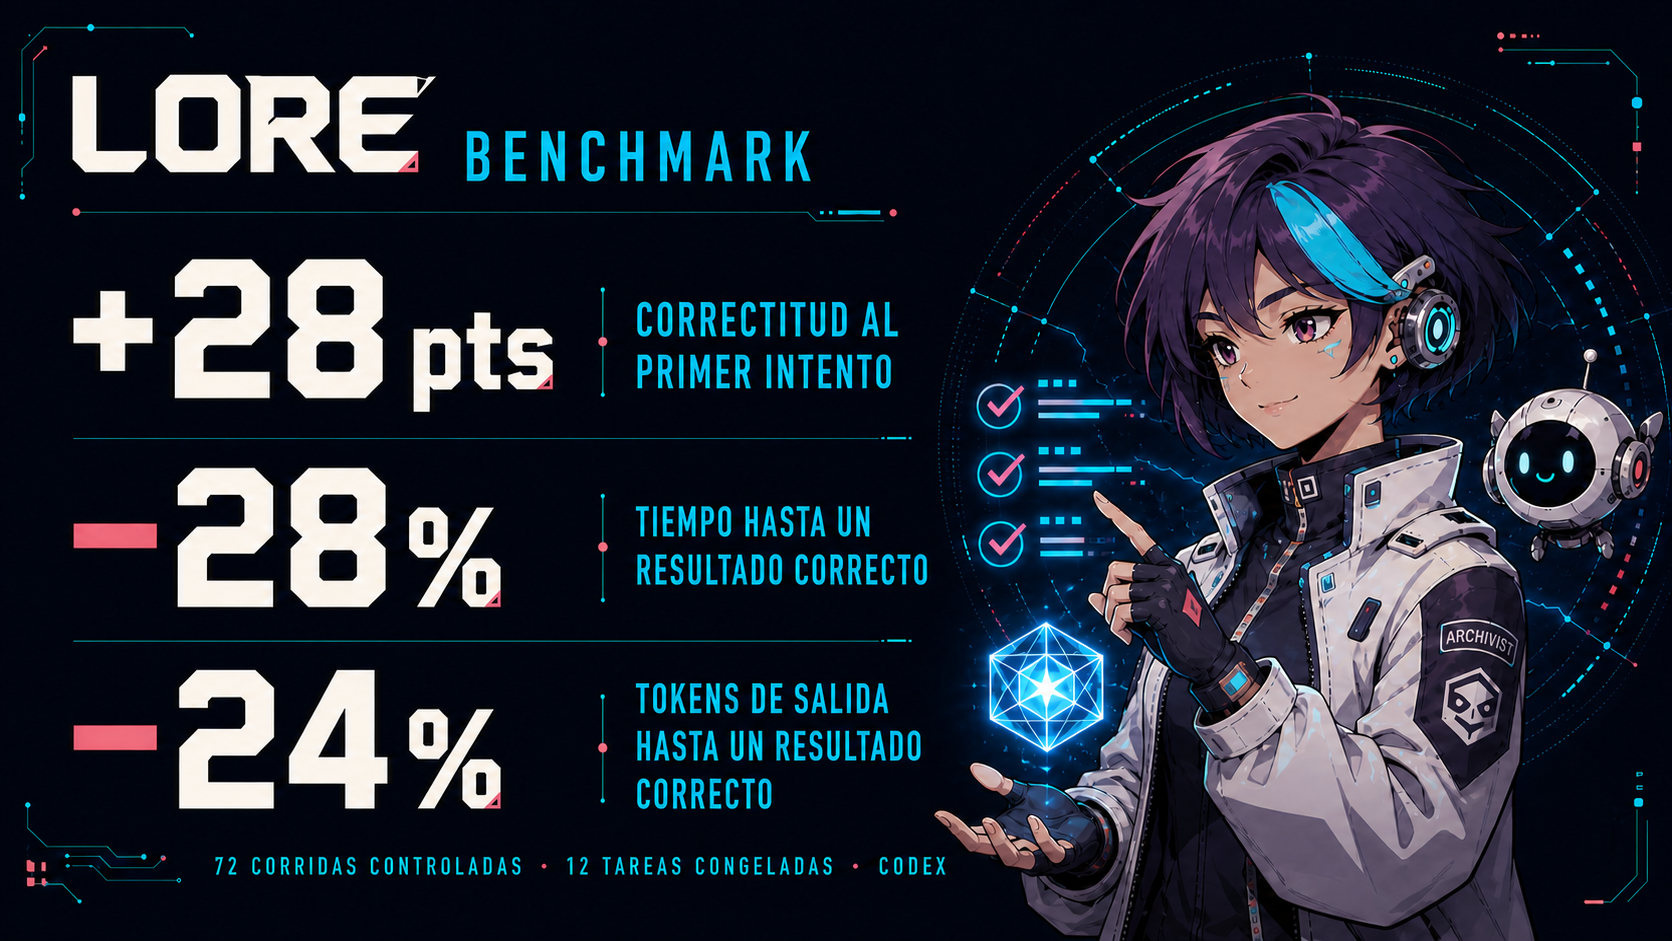
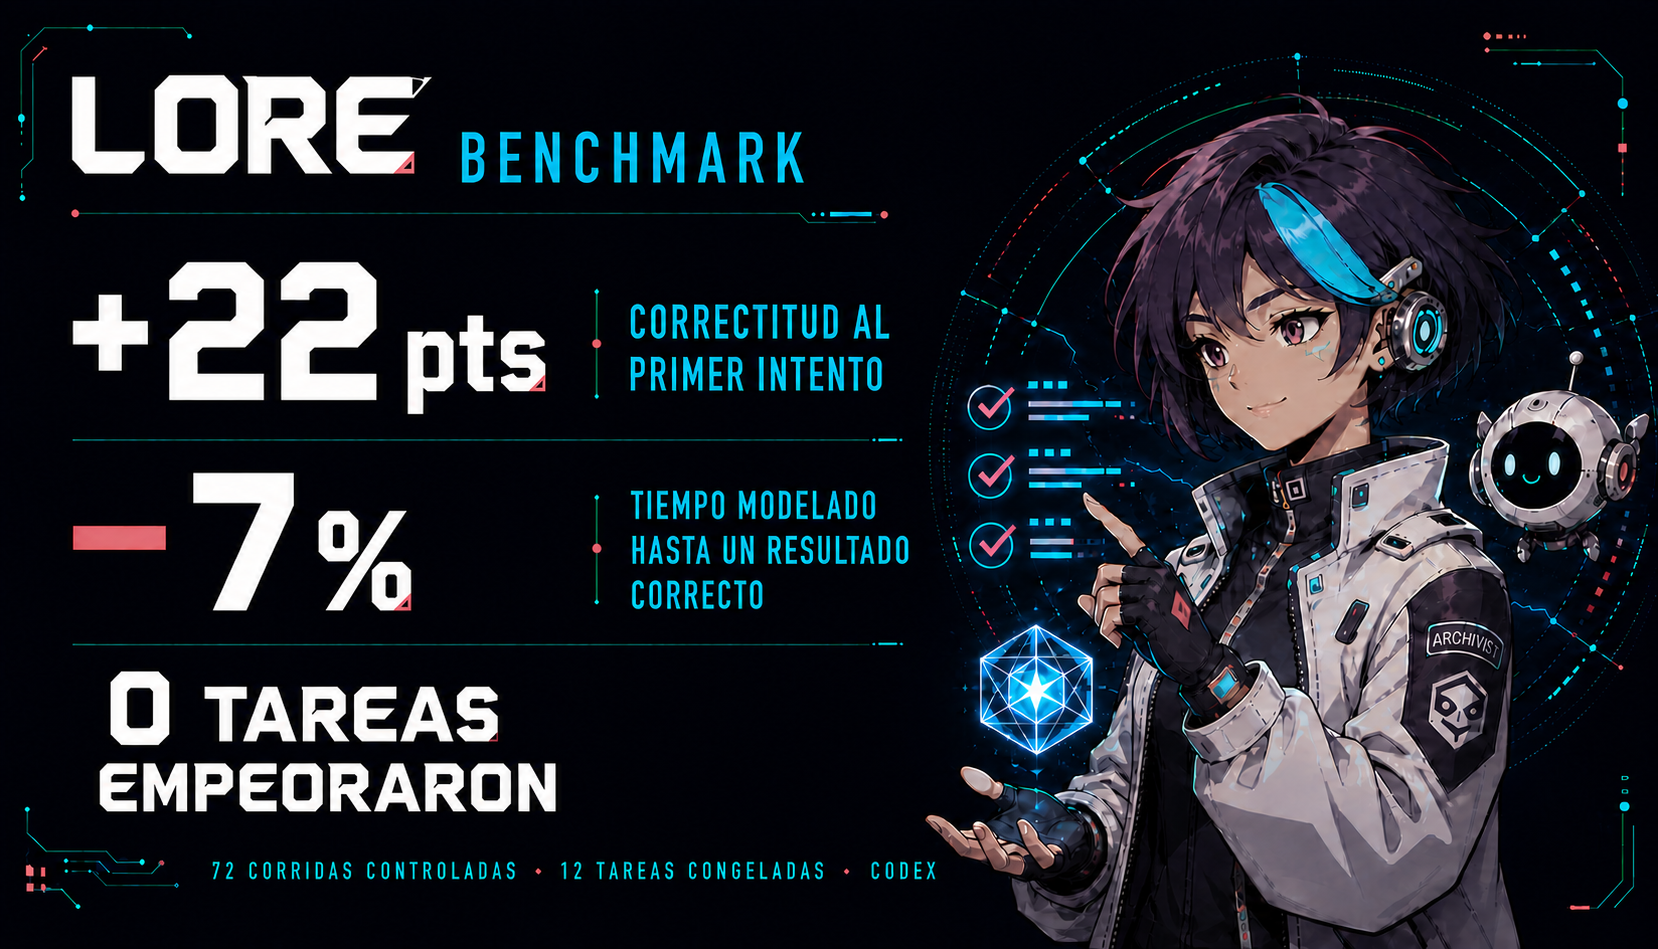
Consolidate audited benchmark in v2.0.7
# Conflicts:
#	README.md

diff --git a/README.md b/README.md
@@ -15,7 +15,7 @@
 <h1 align="center">Lore</h1>
 
 <p align="center">
-  <a href="#installation"><img src="https://img.shields.io/badge/version-2.0.6-F72585?style=for-the-badge&labelColor=0B0B12" alt="Version"></a>
+  <a href="#installation"><img src="https://img.shields.io/badge/version-2.0.7-F72585?style=for-the-badge&labelColor=0B0B12" alt="Version"></a>
   <a href="#installation"><img src="https://img.shields.io/badge/Claude_Code-plugin-7B2CBF?style=for-the-badge&labelColor=0B0B12" alt="Claude Code"></a>
   <a href="#what-is-lore"><img src="https://img.shields.io/badge/paradigm-Spec--Driven_Development-00D9FF?style=for-the-badge&labelColor=0B0B12" alt="SDD"></a>
   <a href="#what-is-lore"><img src="https://img.shields.io/badge/fine--tuning-local-FFBE0B?style=for-the-badge&labelColor=0B0B12" alt="Local fine-tuning"></a>
@@ -43,15 +43,36 @@
   <code>8 skills · 7 case studies · 72 benchmark runs</code>
 </p>
 
-<h3 align="center">Up to <strong>28% faster</strong> and <strong>24% fewer output tokens</strong> to a correct result, with <strong>+28 points of first-pass correctness.</strong></h3>
+<h3 align="center"><strong>+22.3 points of first-pass correctness</strong>, with no task made worse.</h3>
 
-<p align="center">
-| Metric | Cold Codex | Codex + Lore |
-|---|---:|---:|
-| First-pass correctness | 37% | **65% (+28 pts)** |
-| Time to a correct result | 118 s | **85 s (−28%)** |
-| Output tokens to a correct result | 4,116 | **3,119 (−24%)** |
-</p>
+<div align="center">
+<table>
+  <thead>
+    <tr>
+      <th>Metric</th>
+      <th align="right">Cold Codex</th>
+      <th align="right">Codex + Lore</th>
+    </tr>
+  </thead>
+  <tbody>
+    <tr>
+      <td>Audited first-pass correctness</td>
+      <td align="right">25/36 (69.4%)</td>
+      <td align="right"><strong>33/36 (91.7%; +22.3 pts)</strong></td>
+    </tr>
+    <tr>
+      <td>Modeled time to a correct result</td>
+      <td align="right">61.68 s</td>
+      <td align="right"><strong>57.11 s (−7.4%)</strong></td>
+    </tr>
+    <tr>
+      <td>Tasks made worse</td>
+      <td align="right">—</td>
+      <td align="right"><strong>0/12</strong></td>
+    </tr>
+  </tbody>
+</table>
+</div>
 
 <p align="center"><sub>72 controlled runs · 12 frozen tasks · same agent, tools and task; only Lore changed. Lore worsened <strong>0/12</strong> task results. <a href="#benchmark">Method and limits ↓</a></sub></p>
 
@@ -533,27 +554,32 @@ All eight skills follow the same rules:
 ## Benchmark
 
 <p align="center">
-  <img src="./assets/benchmark-impact.png" alt="Lore benchmark: plus 28 points first-pass correctness, 28 percent less time and 24 percent fewer output tokens to a correct result" width="100%">
+  <img src="./assets/benchmark-impact.png" alt="Audited Lore benchmark: 22 points more first-pass correctness, 7 percent less modeled time and zero tasks made worse" width="100%">
 </p>
 
 **Lore does more before answering—so you redo less.** We tested twelve frozen tasks with three independent runs per condition: cold Codex and Codex with Lore, for 72 runs in total. Lore spends more time reading before an attempt; the useful measure is the work required to finish correctly.
 
 | Result | Cold Codex | Codex + Lore |
 |---|---:|---:|
-| Correct on the first attempt | 37% | **65%** |
-| Correct tasks per 10 attempts | 3.7 | **6.5** |
-| Correct reading of project criteria | — | **96%** |
+| Correct on the first attempt | 25/36 (69.4%) | **33/36 (91.7%)** |
+| Correct runs per 10 attempts | 6.9 | **9.2** |
+| Read Lore and obeyed the evaluated criterion | — | **31/32 (96.9%)** |
 
-That is **+28 points of first-pass correctness**. Lore never made a task result worse: it improved 3 of the 12 tasks and preserved the result in the other 9.
+That is **+22.3 points of first-pass correctness**. Lore never made a task result worse: it improved 3 of the 12 tasks and preserved the result in the other 9.
 
 | Cost to reach a correct result | Without Lore | With Lore | Effect |
 |---|---:|---:|---:|
-| Time per attempt | 44 s | 55 s | +25% |
-| Expected attempts per success | 2.70 | **1.53** | **−43%** |
-| Estimated time to success | 118 s | **85 s** | **−28%** |
-| Output tokens to success | 4,116 | **3,119** | **−24%** |
+| Time per attempt | 42.83 s | 52.35 s | +22.2% |
+| Expected attempts per success | 1.44 | **1.09** | **−24.2%** |
+| Modeled time to success | 61.68 s | **57.11 s** | **−7.4%** |
+| Modeled output tokens to success | 2,077 | **2,050** | **−1.3%** |
 
-> **Lore was slower per attempt, but faster at finishing correctly.**
+These four rows are a model based on aggregate first-pass rates, not observed repair cycles. A
+separate controlled extension measured up to one repair across 52 units per arm: Lore reached
+**52/52 goals versus 39/52**, while consuming **15.2% less observed time**, **25.3% fewer attempts**
+and **6.8% fewer output tokens**. Input tokens were 1.3% higher and tool use was effectively equal.
+
+> **Lore was slower per first attempt, but reached every measured goal within the repair limit.**
 
 The harness, frozen tasks, graders, raw outputs and declared limits are in [`bench/`](./bench/). These are Codex results, not a universal model claim. The same benchmark will be repeated with Claude Code during the week of August 17; those results will remain separate and will not change the 2.0 skills or version.
 
@@ -697,7 +723,7 @@ Questions, cases that contradict ours, a Lore that came out weird? The [reposito
 <h1 align="center">Lore</h1>
 
 <p align="center">
-  <a href="#instalación"><img src="https://img.shields.io/badge/versi%C3%B3n-2.0.6-F72585?style=for-the-badge&labelColor=0B0B12" alt="Versión"></a>
+  <a href="#instalación"><img src="https://img.shields.io/badge/versi%C3%B3n-2.0.7-F72585?style=for-the-badge&labelColor=0B0B12" alt="Versión"></a>
   <a href="#instalación"><img src="https://img.shields.io/badge/Claude_Code-plugin-7B2CBF?style=for-the-badge&labelColor=0B0B12" alt="Claude Code"></a>
   <a href="#qué-es-lore"><img src="https://img.shields.io/badge/paradigma-Spec--Driven_Development-00D9FF?style=for-the-badge&labelColor=0B0B12" alt="SDD"></a>
   <a href="#qué-es-lore"><img src="https://img.shields.io/badge/fine--tuning-local-FFBE0B?style=for-the-badge&labelColor=0B0B12" alt="Fine-tuning local"></a>
@@ -725,15 +751,36 @@ Questions, cases that contradict ours, a Lore that came out weird? The [reposito
   <code>8 skills · 7 casos de estudio · 72 corridas de benchmark</code>
 </p>
 
-<h3 align="center">Hasta <strong>28% más rápido</strong> y <strong>24% menos tokens de salida</strong> para llegar a un resultado correcto, con <strong>+28 puntos de correctitud al primer intento.</strong></h3>
+<h3 align="center"><strong>+22,3 puntos de correctitud al primer intento</strong>, sin empeorar ninguna tarea.</h3>
 
-<p align="center">
-| Métrica | Codex frío | Codex + Lore |
-|---|---:|---:|
-| Correctitud al primer intento | 37% | **65% (+28 pts)** |
-| Tiempo hasta un resultado correcto | 118 s | **85 s (−28%)** |
-| Tokens de salida hasta un resultado correcto | 4.116 | **3.119 (−24%)** |
-</p>
+<div align="center">
+<table>
+  <thead>
+    <tr>
+      <th>Métrica</th>
+      <th align="right">Codex frío</th>
+      <th align="right">Codex + Lore</th>
+    </tr>
+  </thead>
+  <tbody>
+    <tr>
+      <td>Correctitud auditada al primer intento</td>
+      <td align="right">25/36 (69,4%)</td>
+      <td align="right"><strong>33/36 (91,7%; +22,3 pts)</strong></td>
+    </tr>
+    <tr>
+      <td>Tiempo modelado hasta un resultado correcto</td>
+      <td align="right">61,68 s</td>
+      <td align="right"><strong>57,11 s (−7,4%)</strong></td>
+    </tr>
+    <tr>
+      <td>Tareas que empeoraron</td>
+      <td align="right">—</td>
+      <td align="right"><strong>0/12</strong></td>
+    </tr>
+  </tbody>
+</table>
+</div>
 
 <p align="center"><sub>72 corridas controladas · 12 tareas congeladas · mismo agente, herramientas y tarea; solo cambió Lore. Lore empeoró <strong>0/12</strong> resultados. <a href="#el-benchmark">Método y límites ↓</a></sub></p>
 
@@ -1191,27 +1238,33 @@ Cada nota minada recibe una marca con fecha y destino, **incluidas las que no pr
 ## El benchmark
 
 <p align="center">
-  <img src="./assets/benchmark-impact-es.png" alt="Benchmark de Lore: 28 puntos más de correctitud al primer intento, 28 por ciento menos tiempo y 24 por ciento menos tokens de salida hasta un resultado correcto" width="100%">
+  <img src="./assets/benchmark-impact-es.png" alt="Benchmark auditado de Lore: 22 puntos más de correctitud al primer intento, 7 por ciento menos tiempo modelado y cero tareas empeoraron" width="100%">
 </p>
 
 **Lore hace más antes de responder, para que tú repitas menos.** Probamos doce tareas congeladas con tres corridas independientes por condición: Codex frío y Codex con Lore, para un total de 72 corridas. Lore dedica más tiempo a leer antes de un intento; la medida útil es el trabajo necesario para terminar correctamente.
 
 | Resultado | Codex frío | Codex + Lore |
 |---|---:|---:|
-| Correcto al primer intento | 37% | **65%** |
-| Tareas correctas cada 10 intentos | 3,7 | **6,5** |
-| Lectura correcta del criterio | — | **96%** |
+| Correcto al primer intento | 25/36 (69,4%) | **33/36 (91,7%)** |
+| Corridas correctas cada 10 intentos | 6,9 | **9,2** |
+| Leyó Lore y obedeció la Pista evaluada | — | **31/32 (96,9%)** |
 
-Son **+28 puntos de correctitud al primer intento**. Lore nunca empeoró el resultado de una tarea: mejoró 3 de las 12 y mantuvo el resultado en las otras 9.
+Son **+22,3 puntos de correctitud al primer intento**. Lore nunca empeoró el resultado de una tarea: mejoró 3 de las 12 y mantuvo el resultado en las otras 9.
 
 | Costo hasta llegar a un resultado correcto | Sin Lore | Con Lore | Efecto |
 |---|---:|---:|---:|
-| Tiempo por intento | 44 s | 55 s | +25% |
-| Intentos esperados por éxito | 2,70 | **1,53** | **−43%** |
-| Tiempo estimado hasta el éxito | 118 s | **85 s** | **−28%** |
-| Tokens de salida hasta el éxito | 4.116 | **3.119** | **−24%** |
+| Tiempo por intento | 42,83 s | 52,35 s | +22,2% |
+| Intentos esperados por éxito | 1,44 | **1,09** | **−24,2%** |
+| Tiempo modelado hasta el éxito | 61,68 s | **57,11 s** | **−7,4%** |
+| Tokens de salida modelados hasta el éxito | 2.077 | **2.050** | **−1,3%** |
 
-> **Lore fue más lento por intento, pero más rápido para terminar correctamente.**
+Estas cuatro filas son un modelo basado en tasas agregadas al primer intento, no ciclos de reparación
+observados. Una extensión controlada aparte midió hasta una reparación en 52 unidades por brazo:
+Lore alcanzó **52/52 metas frente a 39/52**, consumiendo **15,2% menos tiempo observado**, **25,3%
+menos intentos** y **6,8% menos tokens de salida**. La entrada fue 1,3% mayor y las herramientas
+quedaron prácticamente iguales.
+
+> **Lore fue más lento en el primer intento, pero alcanzó todas las metas medidas dentro del límite de reparación.**
 
 El harness, las tareas congeladas, los graders, las salidas crudas y las fronteras declaradas están en [`bench/`](./bench/). Son resultados de Codex, no una afirmación universal sobre modelos. El mismo benchmark se repetirá con Claude Code durante la semana del 17 de agosto; esos resultados quedarán separados y no cambiarán las skills ni la versión 2.0.
 

diff --git a/bench/README.md b/bench/README.md
@@ -59,6 +59,24 @@ Tres decisiones que importan:
 - **Se audita que el brazo `lore` haya leído el lore.** Una corrida que pasa sin haber abierto un
   archivo de `lore/` es suerte, no mecanismo, y se reporta aparte.
 
+## Resultado Codex auditado
+
+El corte público vive en [`results/codex/results.csv`](./results/codex/results.csv): **72 corridas**,
+36 por brazo. Codex frío respetó la Pista en **25/36 (69,4%)** y Codex + Lore en **33/36 (91,7%)**:
+**+22,3 puntos porcentuales**. Lore mejoró 3 de 12 tareas, mantuvo 9 y no empeoró ninguna.
+
+| Costo del corte web | Frío | Lore | Efecto |
+|---|---:|---:|---:|
+| Tiempo por intento | 42,83 s | 52,35 s | +22,2% |
+| Intentos modelados por éxito (`1/p`) | 1,44 | **1,09** | **−24,2%** |
+| Tiempo modelado hasta éxito (`tiempo/p`) | 61,68 s | **57,11 s** | **−7,4%** |
+| Salida modelada hasta éxito (`salida/p`) | 2.077 | **2.050** | **−1,3%** |
+
+Las últimas tres filas son una **normalización exploratoria**, no reparaciones observadas. La
+extensión tarea → meta se conserva aparte: en 52 unidades por brazo y con una corrección máxima,
+frío alcanzó 39/52 metas y Lore 52/52; Lore consumió 15,2% menos tiempo observado, 25,3% menos
+intentos y 6,8% menos salida, con entrada 1,3% mayor y herramientas prácticamente iguales.
+
 ## Reproducirlo
 
 ```bash
@@ -69,17 +87,18 @@ node bench/run.mjs -n 3 --retry-na         # reintenta solo corridas fallidas o 
 node bench/run.mjs --regrade               # recalifica lo ya corrido, sin gastar
 ```
 
-Cada corrida deja su transcript íntegro en [`results/raw/`](./results/) y una fila en
-[`results/results.csv`](./results/results.csv). Los números que aparecen en el README salen de ese
-CSV, no de la memoria.
+Cada corrida deja su transcript íntegro en un directorio por proveedor y una fila en su CSV. El
+corte Codex vive en [`results/codex/raw/`](./results/codex/raw/) y
+[`results/codex/results.csv`](./results/codex/results.csv). Los números públicos se recalculan desde
+ese CSV mediante `benchmark-consistency.test.mjs`; no se transcriben desde memoria ni desde una
+tabla de presentación.
 
 Aislamiento: `--setting-sources project` (sin hooks, plugins ni skills del usuario),
 `--strict-mcp-config` (sin MCP heredado), fixtures sin `.claude/`.
 
-## Sobre el orden en que se hizo esto
+## Auditoría del instrumento y procedencia
 
-El grader se afinó **durante el piloto y contra los transcripts del piloto**, no después de ver la
-corrida completa. Aparecieron dos errores y los dos están corregidos acá:
+El piloto corrigió dos errores antes de la corrida completa:
 
 1. `opacity: 0` dentro de la configuración de GSAP contaba como estado inicial en el markup. No lo
    es: ese es exactamente el FOUC que la Pista prohíbe. Habría producido falsos **pass**.
@@ -87,8 +106,27 @@ corrida completa. Aparecieron dos errores y los dos están corregidos acá:
    —pinta antes de la hidratación, que es lo que se exige—. Habría producido falsos **fail**, en
    contra del brazo con lore.
 
-Después de esos dos arreglos se congeló `tasks.json`, se borraron los resultados del piloto y se
-corrieron las 72 desde cero.
+Después de esos arreglos se congeló `tasks.json`, se borró el piloto y se corrieron las 72. Una
+auditoría **post hoc**, sobre transcripts ya congelados, encontró además tres familias de falsos
+negativos: `min-h-svh`/`min-h-dvh`, restaurar el `overflow` previo y `origin-left`. Cada variante se
+añadió primero como regresión fallida; luego se amplió el grader y se recalificaron ambos brazos.
+El corte bruto fue 17/36 frente a 25/36; el auditado, 25/36 frente a 33/36. La diferencia permaneció
+en ocho aciertos. Se publican ambos porque corregir el instrumento no autoriza a borrar su historia.
+
+## Regla para la réplica con Claude Code
+
+Antes de gastar una corrida, **verificar el baseline Codex** ejecutando:
+
+```bash
+node --test bench/benchmark-consistency.test.mjs
+node bench/run.mjs --provider codex --regrade
+```
+
+La recalificación debe conservar **25/36 (69,4%) frío y 33/36 (91,7%) Lore**. Solo entonces repetir
+con Claude usando las mismas tareas, fixtures, grader, tres repeticiones y esfuerzo equivalente. Los
+resultados de Claude viven en su propio directorio específico del proveedor; no reemplazan ni se
+combinan con Codex. Si aparece otro defecto del grader: congelar transcripts, añadir primero una
+regresión que falle, recalificar simétricamente ambos brazos y publicar corte bruto y auditado.
 
 ## Fronteras declaradas
 
